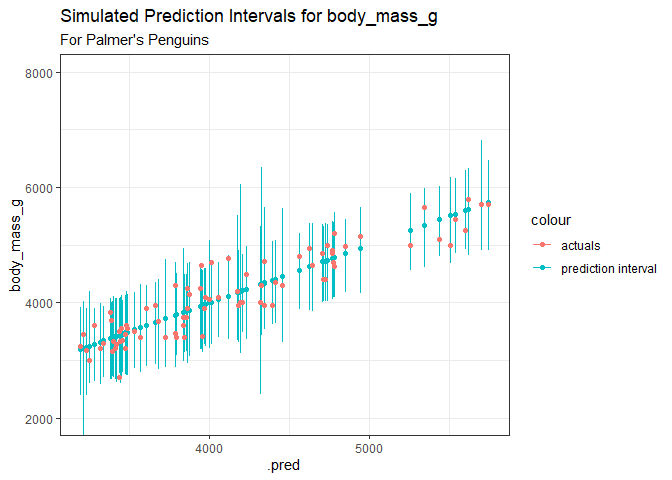
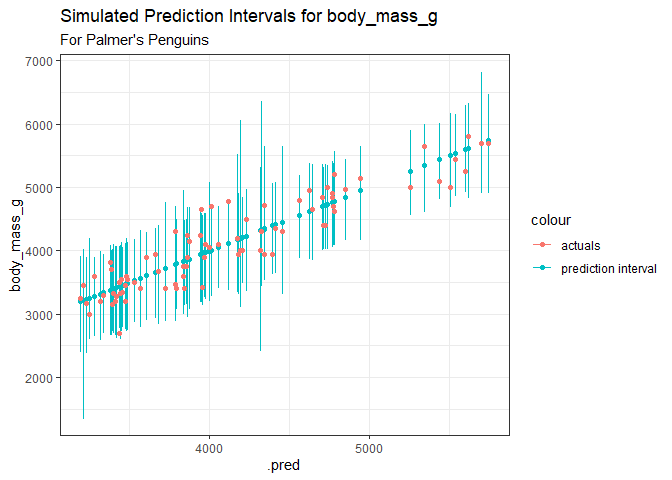
updated package name to spin

diff --git a/README.md b/README.md
@@ -1,7 +1,7 @@
 
 <!-- README.md is generated from README.Rmd. Please edit that file -->
 
-# pints
+# spin
 
 <!-- badges: start -->
 
@@ -9,7 +9,7 @@
 experimental](https://img.shields.io/badge/lifecycle-experimental-orange.svg)](https://lifecycle.r-lib.org/articles/stages.html#experimental)
 <!-- badges: end -->
 
-pints – prediction intervals simulated – is a toy package for building
+spin – prediction intervals simulated – is a toy package for building
 prediction intervals with out-of-sample data for
 [tidymodels](https://github.com/tidymodels) supported
 [workflows](https://github.com/tidymodels/workflows) objects. It
@@ -17,14 +17,14 @@ consists of two functions: `prep_interval()` for simulating model fits +
 sample uncertainty and `predict_interval()` for outputting prediction
 intervals on new observations.
 
-To use pints, you need a dataset for training and a tidymodels workflow
+To use spin, you need a dataset for training and a tidymodels workflow
 (with a preprocessing recipe and model specification):
 
 ``` r
 # Set-up
 library(tidyverse)
 library(tidymodels)
-library(pints)
+library(spin)
 
 set.seed(123)
 split <- palmerpenguins::penguins %>% 
@@ -96,7 +96,6 @@ bind_cols(
   geom_errorbar(aes(ymin = .pred_lower, ymax = .pred_upper, color = "prediction interval"))+
   geom_point(aes(y = actuals, color = "actuals"))+
   theme_bw()+
-  coord_cartesian(ylim = c(2000, 8000))+
   labs(title = "Simulated Prediction Intervals for body_mass_g",
        subtitle = "For Palmer's Penguins",
        y = "body_mass_g")
@@ -115,20 +114,20 @@ have all hyperparameters etc. specified[1].
 **More Documentation**
 
 *For a more detailed description and review of the current methodology
-used in pints, see [Simulating Prediction
+used in spin, see [Simulating Prediction
 Intervals](https://www.bryanshalloway.com/2021/04/05/simulating-prediction-intervals/).*
 
 # Notes, Limitations, Resources, Ideas
 
-pints produces reasonable, simple to create prediction interval
-(assuming iid) for any model type supported by the tidymodels ecosystem.
-Due to it taking in a *workflow*, pints takes an expansive view of
-uncertainty due to model estimation and include both model fit *as well
-as* preprocessing steps (which feels like a good idea in most cases).
-That said, pints is *very much* in toy / experimental form[2]:
+spin produces reasonable, simple to create prediction interval (assuming
+iid) for any model type supported by the tidymodels ecosystem. Due to it
+taking in a *workflow*, spin takes an expansive view of uncertainty due
+to model estimation and include both model fit *as well as*
+preprocessing steps (which feels like a good idea in most cases). That
+said, spin is *very much* in toy / experimental form[2]:
 
 -   A more detailed description of the (rough) methodology currently
-    used by pints can be found in the second of three blog posts I wrote
+    used by spin can be found in the second of three blog posts I wrote
     on building prediction intervals: [Simulating Prediction
     Intervals](https://www.bryanshalloway.com/2021/04/05/simulating-prediction-intervals/)
     where I also include references to related posts by Dan Saattrup
@@ -136,12 +135,12 @@ That said, pints is *very much* in toy / experimental form[2]:
     [Doubt](https://github.com/saattrupdan/doubt)). See
     [parsnip\#464](https://github.com/tidymodels/parsnip/issues/464) for
     other related links.
--   The methodology in pints assumes errors are roughly iid[3]. See
-    other post on [quantile regression
+-   The methodology in spin assumes errors are roughly iid[3]. See other
+    post on [quantile regression
     intervals](https://www.bryanshalloway.com/2021/04/21/quantile-regression-forests-for-prediction-intervals/)
     and linked to resources for other (in many circumstances) more
     flexible approaches.
--   I’d like to investigate blending a parsnip interface like pints onto
+-   I’d like to investigate blending a parsnip interface like spin onto
     a [conformal inference](https://github.com/ryantibs/conformal)
     approach
 -   I’d like to allow for more flexibility in specifying things like the
@@ -157,10 +156,10 @@ That said, pints is *very much* in toy / experimental form[2]:
 
 ``` r
 # install.packages("devtools")
-devtools::install_github("brshallo/pints")
+devtools::install_github("brshallo/spin")
 ```
 
-[1] Though pints may also be useful for evaluating prediction intervals
+[1] Though spin may also be useful for evaluating prediction intervals
 of different candidate models.
 
 [2] There are also no checks, tests, etc currently in place.
